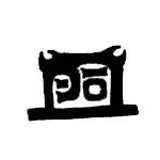
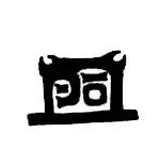
山的图标在一行显示

Changed region(s): [[0.1562, 0.2812, 0.875, 0.8125]]

diff --git a/README.md b/README.md
@@ -63,12 +63,12 @@
   <span>山不见我</span>
 </h3>
 
-<img height=40 style="vertical-align：middle" src="image/qing_cheng_shan.png">
-<img height=35 style="vertical-align：middle" src="image/tai_shan.png">
-<img height=40 style="vertical-align：middle" src="image/lao_shan.png">
-<img height=40 style="vertical-align：middle" src="image/hua_shan.png">
-<img height=43 style="vertical-align：middle" src="image/heng_shan.png">
-<img height=43 style="vertical-align：middle" src="image/song_shan.png">
+<span><img height=40 style="vertical-align：middle" src="image/qing_cheng_shan.png"></span>
+<span><img height=35 style="vertical-align：middle" src="image/tai_shan.png"></span>
+<span><img height=40 style="vertical-align：middle" src="image/lao_shan.png"></span>
+<span><img height=40 style="vertical-align：middle" src="image/hua_shan.png"></span>
+<span><img height=43 style="vertical-align：middle" src="image/heng_shan.png"></span>
+<span><img height=44 style="vertical-align：middle" src="image/song_shan.png"></span>
 
 ### ⚡ Visitor count
 
